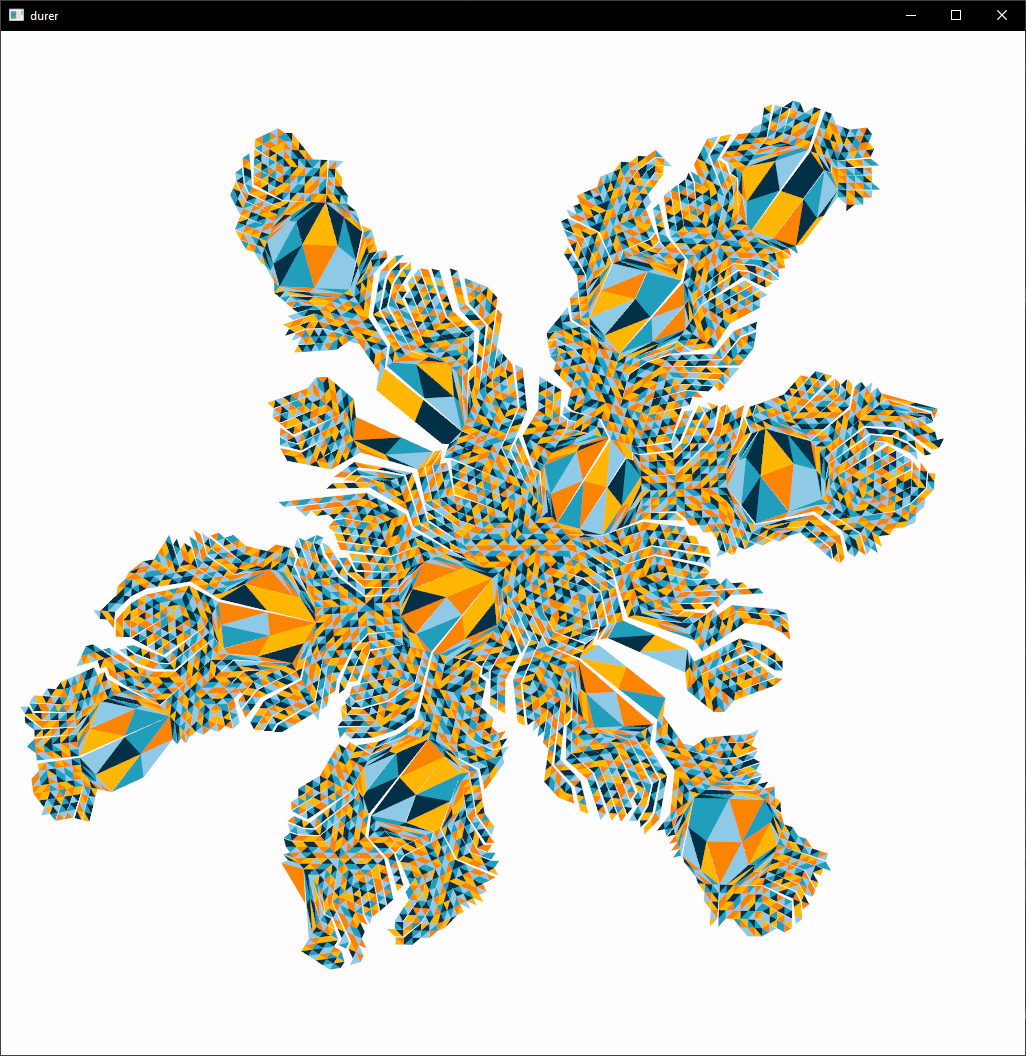
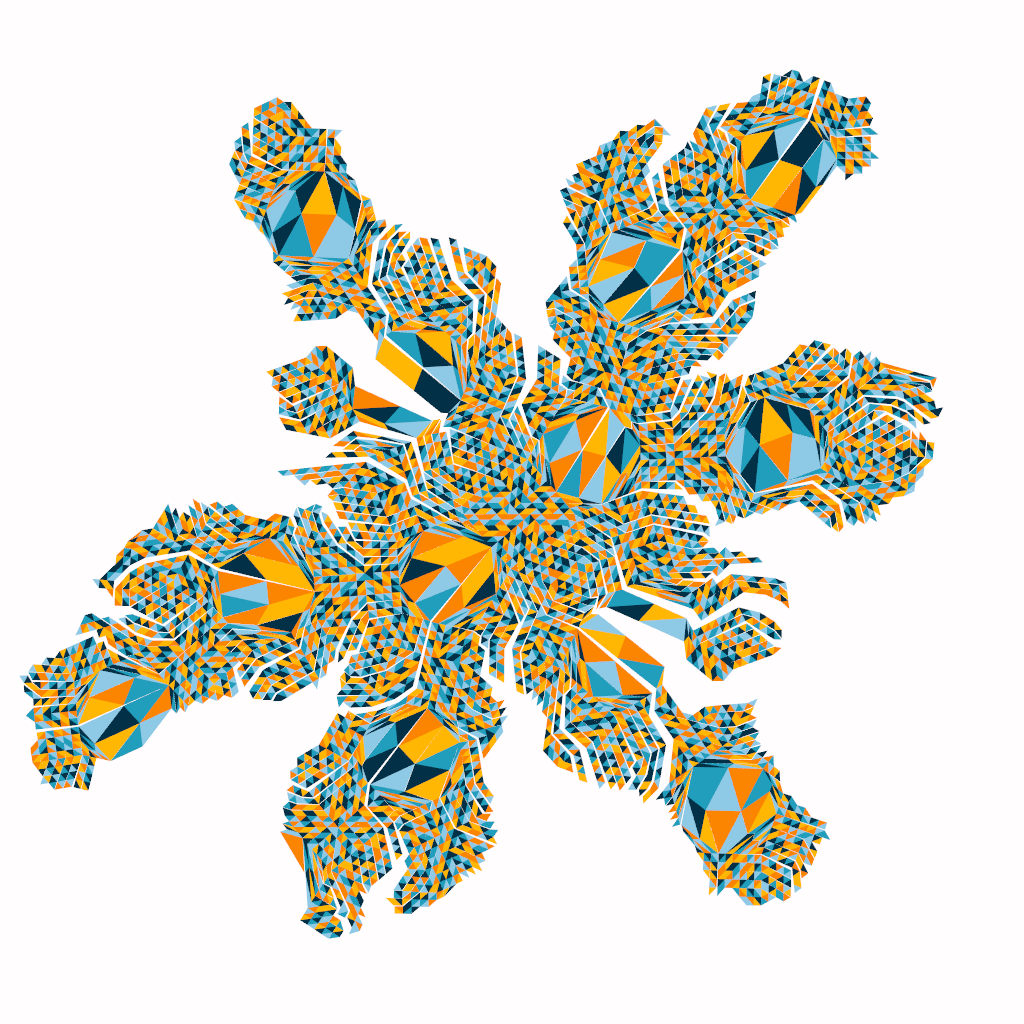
Removes print statements and comments from goal mesh. Updates screenshot.

diff --git a/src/goal_mesh.rs b/src/goal_mesh.rs
@@ -154,21 +154,6 @@ impl GoalMesh {
             not_seen_faces.retain(|&fid| fid != curr_face);
         }
 
-        // for (fid, (neighbor, shared_edge)) in self.came_from.iter() {
-        //     // Skip the reference face, whose neighbor index is invalid
-        //     if *neighbor == NO_FACE {
-        //         continue;
-        //     }
-        //
-        //     let vids = self
-        //         .half_edge_mesh
-        //         .adjacent_vertices_to_half_edge(*shared_edge);
-        //     println!(
-        //         "Face {:?} came from face {:?} via shared edge from {:?} to {:?}",
-        //         fid, neighbor, vids[0], vids[1]
-        //     );
-        // }
-
         // Edges that are crossed by the spanning tree
         self.crossed_edges = self
             .came_from
@@ -176,12 +161,6 @@ impl GoalMesh {
             .filter(|(fid, _)| *fid != NO_FACE)
             .map(|(_, eid)| *eid)
             .collect::<Vec<_>>();
-
-        // println!("Edges crossed by the spanning tree:");
-        // for eid in crossed_edges.iter() {
-        //     let vids = self.half_edge_mesh.adjacent_vertices_to_half_edge(*eid);
-        //     println!("\tEdge from {:?} to {:?}", vids[0], vids[1]);
-        // }
 
         // Faces that are in the "middle" of a path along the spanning tree
         self.branch_faces = self
@@ -200,40 +179,10 @@ impl GoalMesh {
             .filter(|fid| !self.branch_faces.contains(fid))
             .collect::<Vec<_>>();
 
-        // println!("Branch faces:");
-        // for fid in self.branch_faces.iter() {
-        //     println!("\tFace: {:?}", fid);
-        // }
-        //
-        // println!("Leaf faces:");
-        // for fid in self.leaf_faces.iter() {
-        //     println!("\tFace: {:?}", fid);
-        // }
         debug_assert_eq!(
             self.branch_faces.len() + self.leaf_faces.len(),
             self.half_edge_mesh.faces().len()
         );
-
-        // Debug unfolding paths
-        // println!("Unfolding paths:");
-        // for fid in self.half_edge_mesh.face_id_iter() {
-        //     let (faces_along_path, _) = self.get_unfolding_path_to(fid);
-        //     println!(
-        //         "\tPath to face {:?} from the reference face in the spanning tree: {:?}",
-        //         fid, faces_along_path
-        //     );
-        // }
-
-        // Debug incoming + outgoing edges
-        // let (incoming, outgoing) = self.get_incoming_outgoing_edges(0.into(), 1.into());
-        //
-        // let vids = self.half_edge_mesh.adjacent_vertices_to_half_edge(incoming);
-        // println!("Incoming edge: {:?} -> {:?}", vids[0], vids[1]);
-        //
-        // if let Some(outgoing) = outgoing {
-        //     let vids = self.half_edge_mesh.adjacent_vertices_to_half_edge(outgoing);
-        //     println!("Outgoing edge: {:?} -> {:?}", vids[0], vids[1]);
-        // }
     }
 
     /// A helper function for finding the index of a vertex in the "global" array (i.e. m1, m2, or m3), given
@@ -452,11 +401,7 @@ impl GoalMesh {
 
             // Get the unfolding path from the reference face to the target face
             let (path, _) = self.get_unfolding_path_to(fid);
-
-            // Sanity check
-            if path.len() < 2 {
-                panic!("Unfolding path with 1 (or fewer) entries");
-            }
+            debug_assert!(path.len() >= 2);
 
             let mut cumulative_translation = Vec3::zero();
             let mut mu_history = vec![];

diff --git a/src/main.rs b/src/main.rs
@@ -13,10 +13,7 @@ use bevy::prelude::*;
 use bevy::render::pass::ClearColor;
 use bevy_prototype_lyon::prelude::*;
 use clap;
-use log::{info, warn};
-
-const W: u32 = 1024;
-const H: u32 = 1024;
+use log::info;
 
 struct InputArgs {
     path_to_obj: String,
@@ -25,7 +22,7 @@ struct InputArgs {
 
 fn main() {
     // Parse all of the commandline args
-    let matches = clap::App::new("Dürer")
+    let matches = clap::App::new("Unfold")
         .version("0.1")
         .author("Michael Walczyk")
         .about("📦 A program for unfolding arbitrary convex objects.")
@@ -42,7 +39,7 @@ fn main() {
         .get_matches();
 
     // This arg is required, so we can safely unwrap
-    let path_to_obj = matches.value_of("INPUT").unwrap();
+    let path_to_obj = matches.value_of("INPUT").unwrap().to_owned();
     info!("Unfolding .obj: {:?}", path_to_obj);
 
     let resolution = matches.value_of("RESOLUTION").unwrap().parse::<u32>().expect("Invalid resolution");
@@ -50,7 +47,7 @@ fn main() {
 
     // Aggregate args
     let input_args = InputArgs {
-        path_to_obj: String::from(path_to_obj),
+        path_to_obj,
         resolution
     };
 

diff --git a/src/utils.rs b/src/utils.rs
@@ -38,6 +38,7 @@ pub fn find_extents(points: &Vec<Vec3>) -> (f32, f32) {
     ((max_x - min_x).abs(), (max_y - min_y).abs())
 }
 
+/// Finds the center (i.e. average) of the given set of 3D points.
 pub fn find_centroid(points: &Vec<Vec3>) -> Vec3 {
     let mut centroid = Vec3::zero();
     for point in points.iter() {
@@ -46,14 +47,17 @@ pub fn find_centroid(points: &Vec<Vec3>) -> Vec3 {
     centroid / points.len() as f32
 }
 
+/// Finds the area of the specified triangle.
 pub fn triangle_area_2d(a: &Vec2, b: &Vec2, c: &Vec2) -> f32 {
     (a.x() * (b.y() - c.y()) + b.x() * (c.y() - a.y()) + c.x() * (a.y() * b.y()) / 2.0).abs()
 }
 
+/// Remaps `s` from the first range to the second.
 pub fn remap(from_range: (f32, f32), to_range: (f32, f32), s: f32) -> f32 {
     to_range.0 + (s - from_range.0) * (to_range.1 - to_range.0) / (from_range.1 - from_range.0)
 }
 
+/// Convert SRGB to linear color.
 pub fn srgb_to_linear(val: f32) -> f32 {
     if val <= 0.04045 {
         return val / 12.92;
